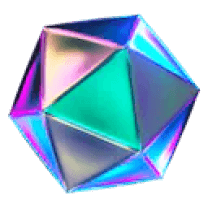
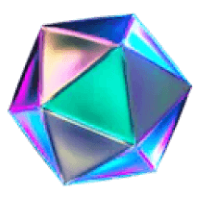
reduced image sizes, updated experience wording

diff --git a/src/constants/index.js b/src/constants/index.js
@@ -133,10 +133,8 @@ const experiences = [
 		iconBg: "#383E56",
 		date: "Jan 2020 - Dec 2022",
 		points: [
-			"Provided tutoring services for mathematics and physics related courses.",
 			"Collaborating with team of faculty to develop innovative instructional methodologies.",
 			"Managing review sessions and providing constructive feedback to students.",
-			"Designing adequately challenging questions for review sessions.",
 		],
 	},
 	{
@@ -146,9 +144,8 @@ const experiences = [
 		iconBg: "#081741",
 		date: "Jan 2021 - Jan 2023",
 		points: [
-			"Designing and building test panels for functional testing.",
 			"Testing control panel systems visually, point to point, and operationally.",
-			"Implementing responsive design and ensuring cross-browser compatibility.",
+			"Designing and building test panels for functional testing.",
 			"Collaborating with a team of designers and technicians to ensure customer satisfaction.",
 		],
 	},

diff --git a/src/components/Contact.jsx b/src/components/Contact.jsx
@@ -14,11 +14,10 @@ const Contact = () => {
 
 	const [loading, setLoading] = useState(false);
 
-	//TODO- email functionality is disabled for now
 	const handleChange = (e) => {
-		// const { name, value } = e.target;
-		// setForm({ ...form, [name]: value });
-		// setForm({ ...form, [name]: value });
+		const { name, value } = e.target;
+		setForm({ ...form, [name]: value });
+		setForm({ ...form, [name]: value });
 	};
 	const handleSubmit = (e) => {
 		e.preventDefault();

diff --git a/src/components/Navbar.jsx b/src/components/Navbar.jsx
@@ -5,6 +5,8 @@ import { styles } from "../styles";
 import { navLinks } from "../constants";
 import { logo, menu, close } from "../assets";
 
+//TODO- update active link on scroll
+
 const Navbar = () => {
 	const [active, setActive] = useState("");
 	const [toggle, setToggle] = useState(false);

diff --git a/src/components/About.jsx b/src/components/About.jsx
@@ -1,5 +1,4 @@
 import React from "react";
-import Tilt from "react-tilt";
 import { motion } from "framer-motion";
 import { styles } from "../styles";
 import { services } from "../constants";

diff --git a/src/App.jsx b/src/App.jsx
@@ -10,9 +10,6 @@ import {
 	StarsCanvas,
 } from "./components";
 
-//TODO-create readme file
-//TODO- update active link on scroll
-
 const App = () => {
 	return (
 		<BrowserRouter>
